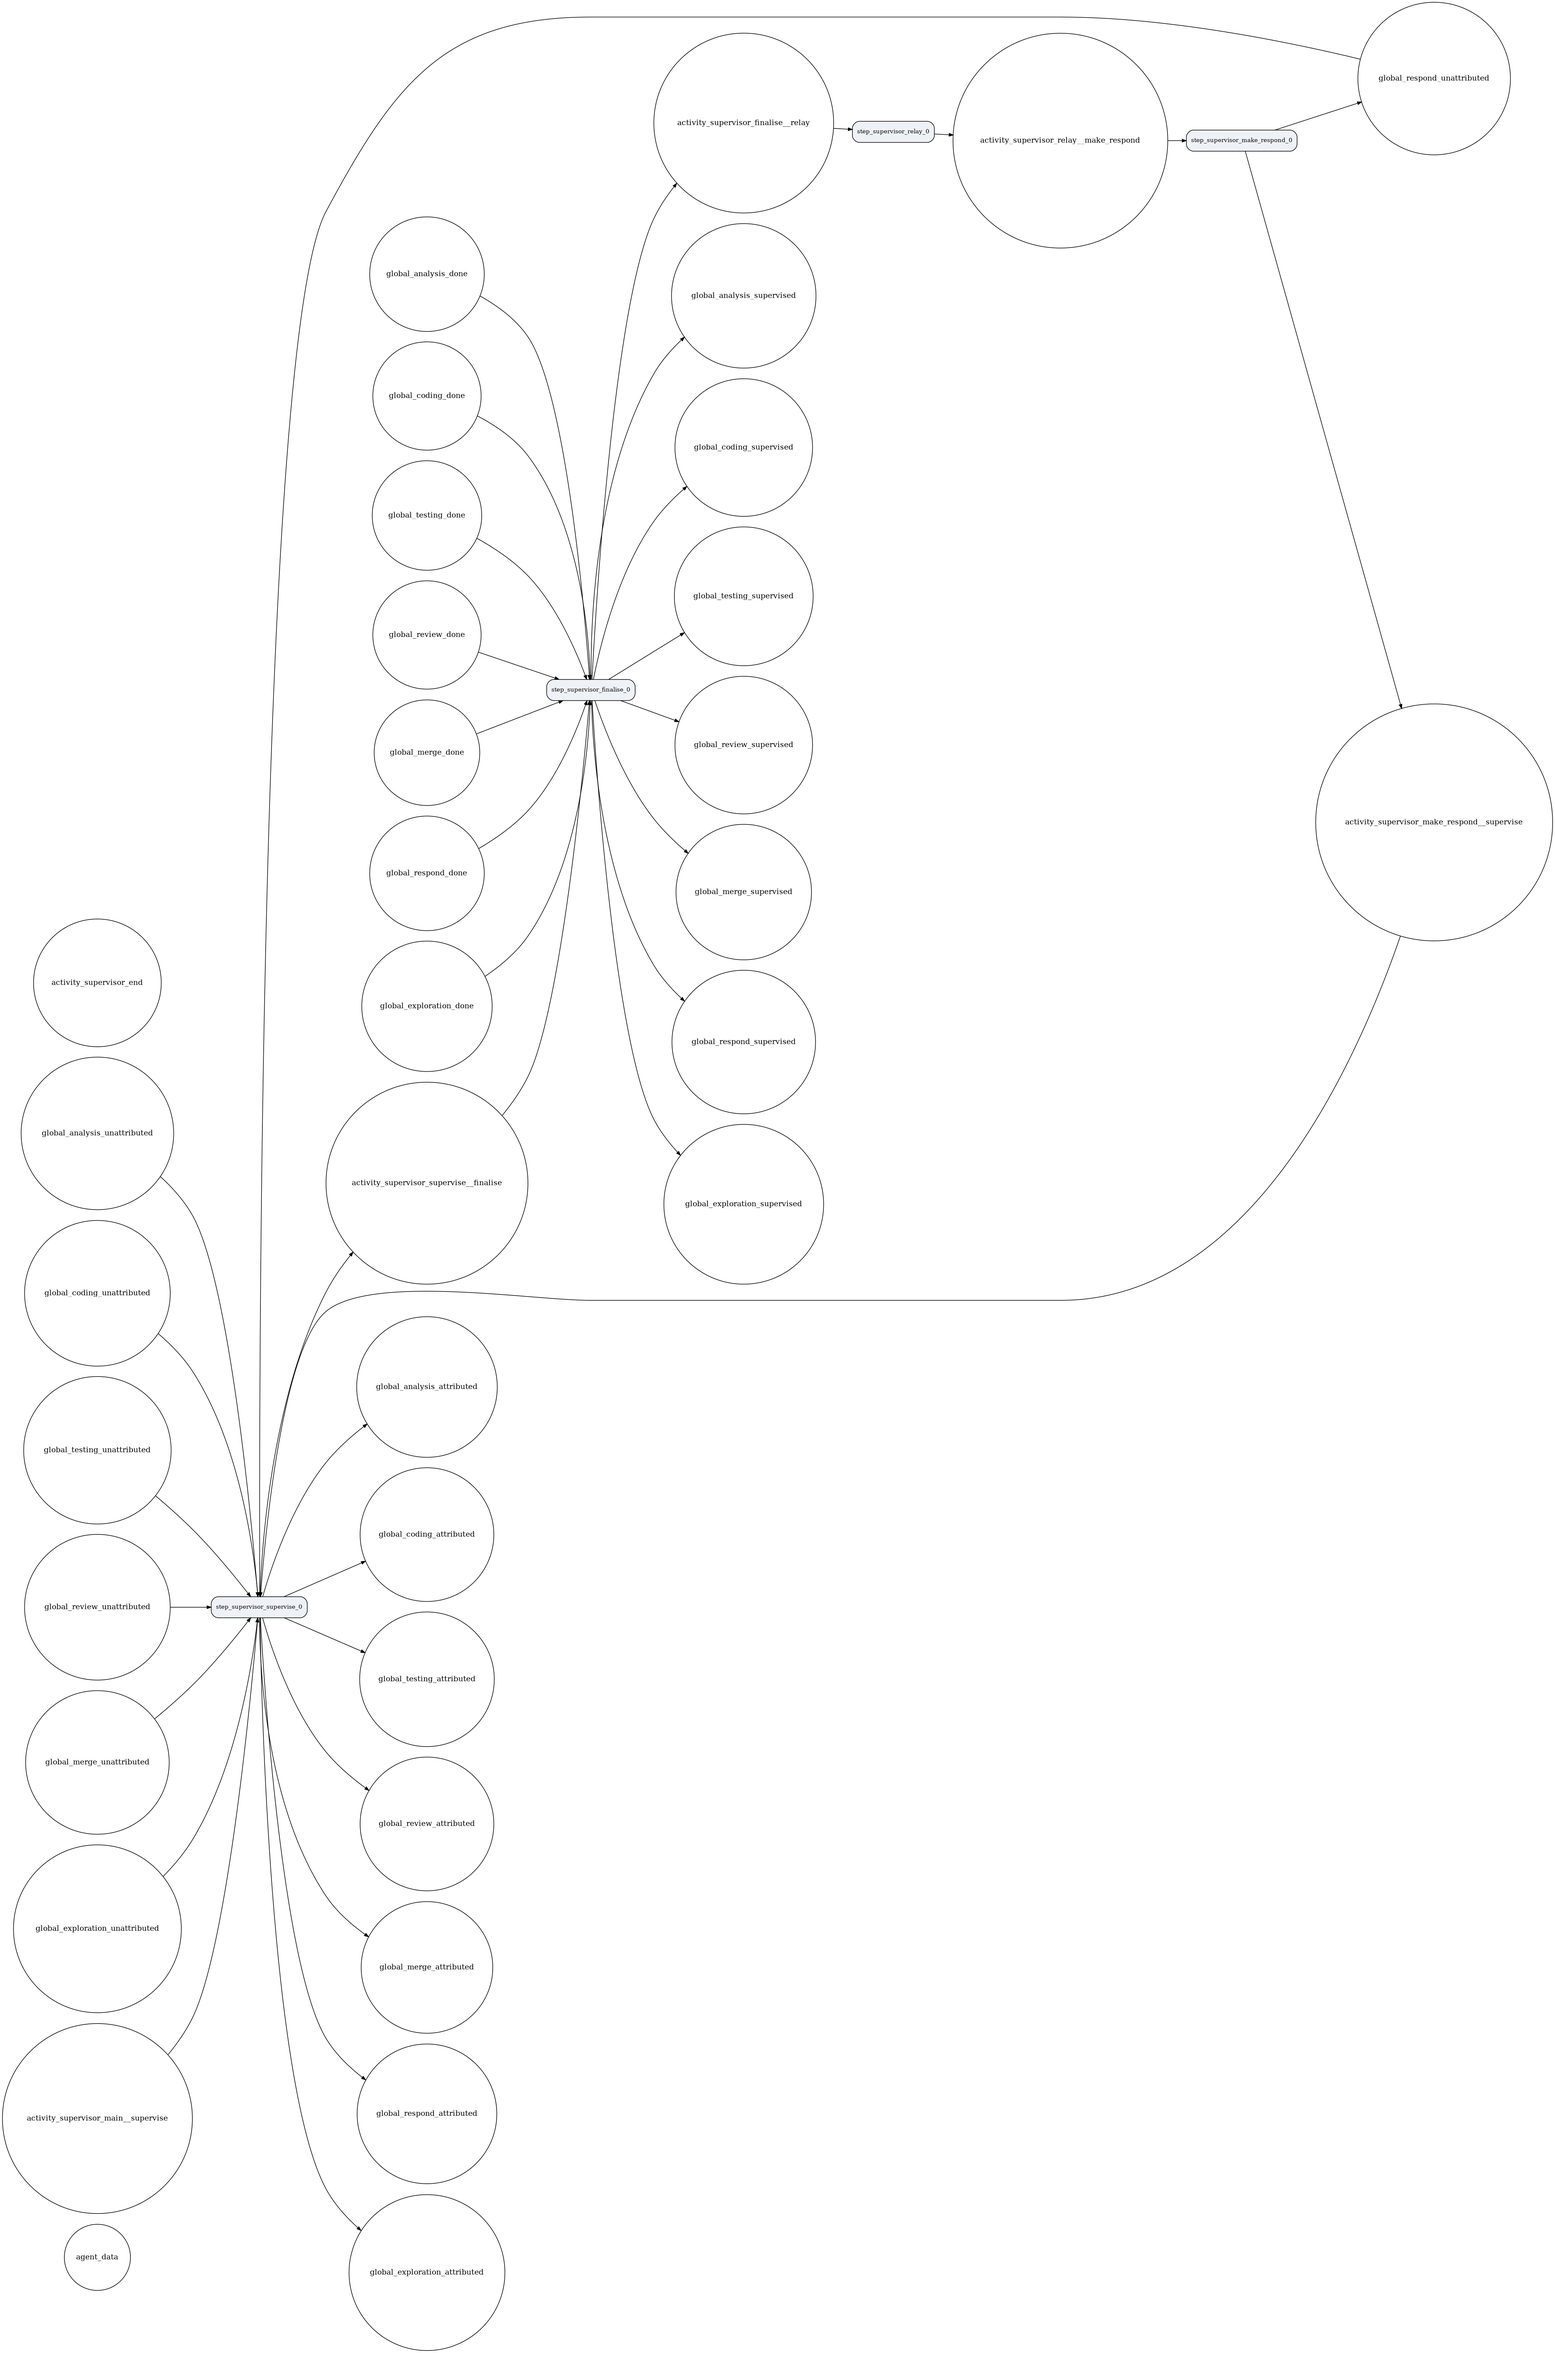
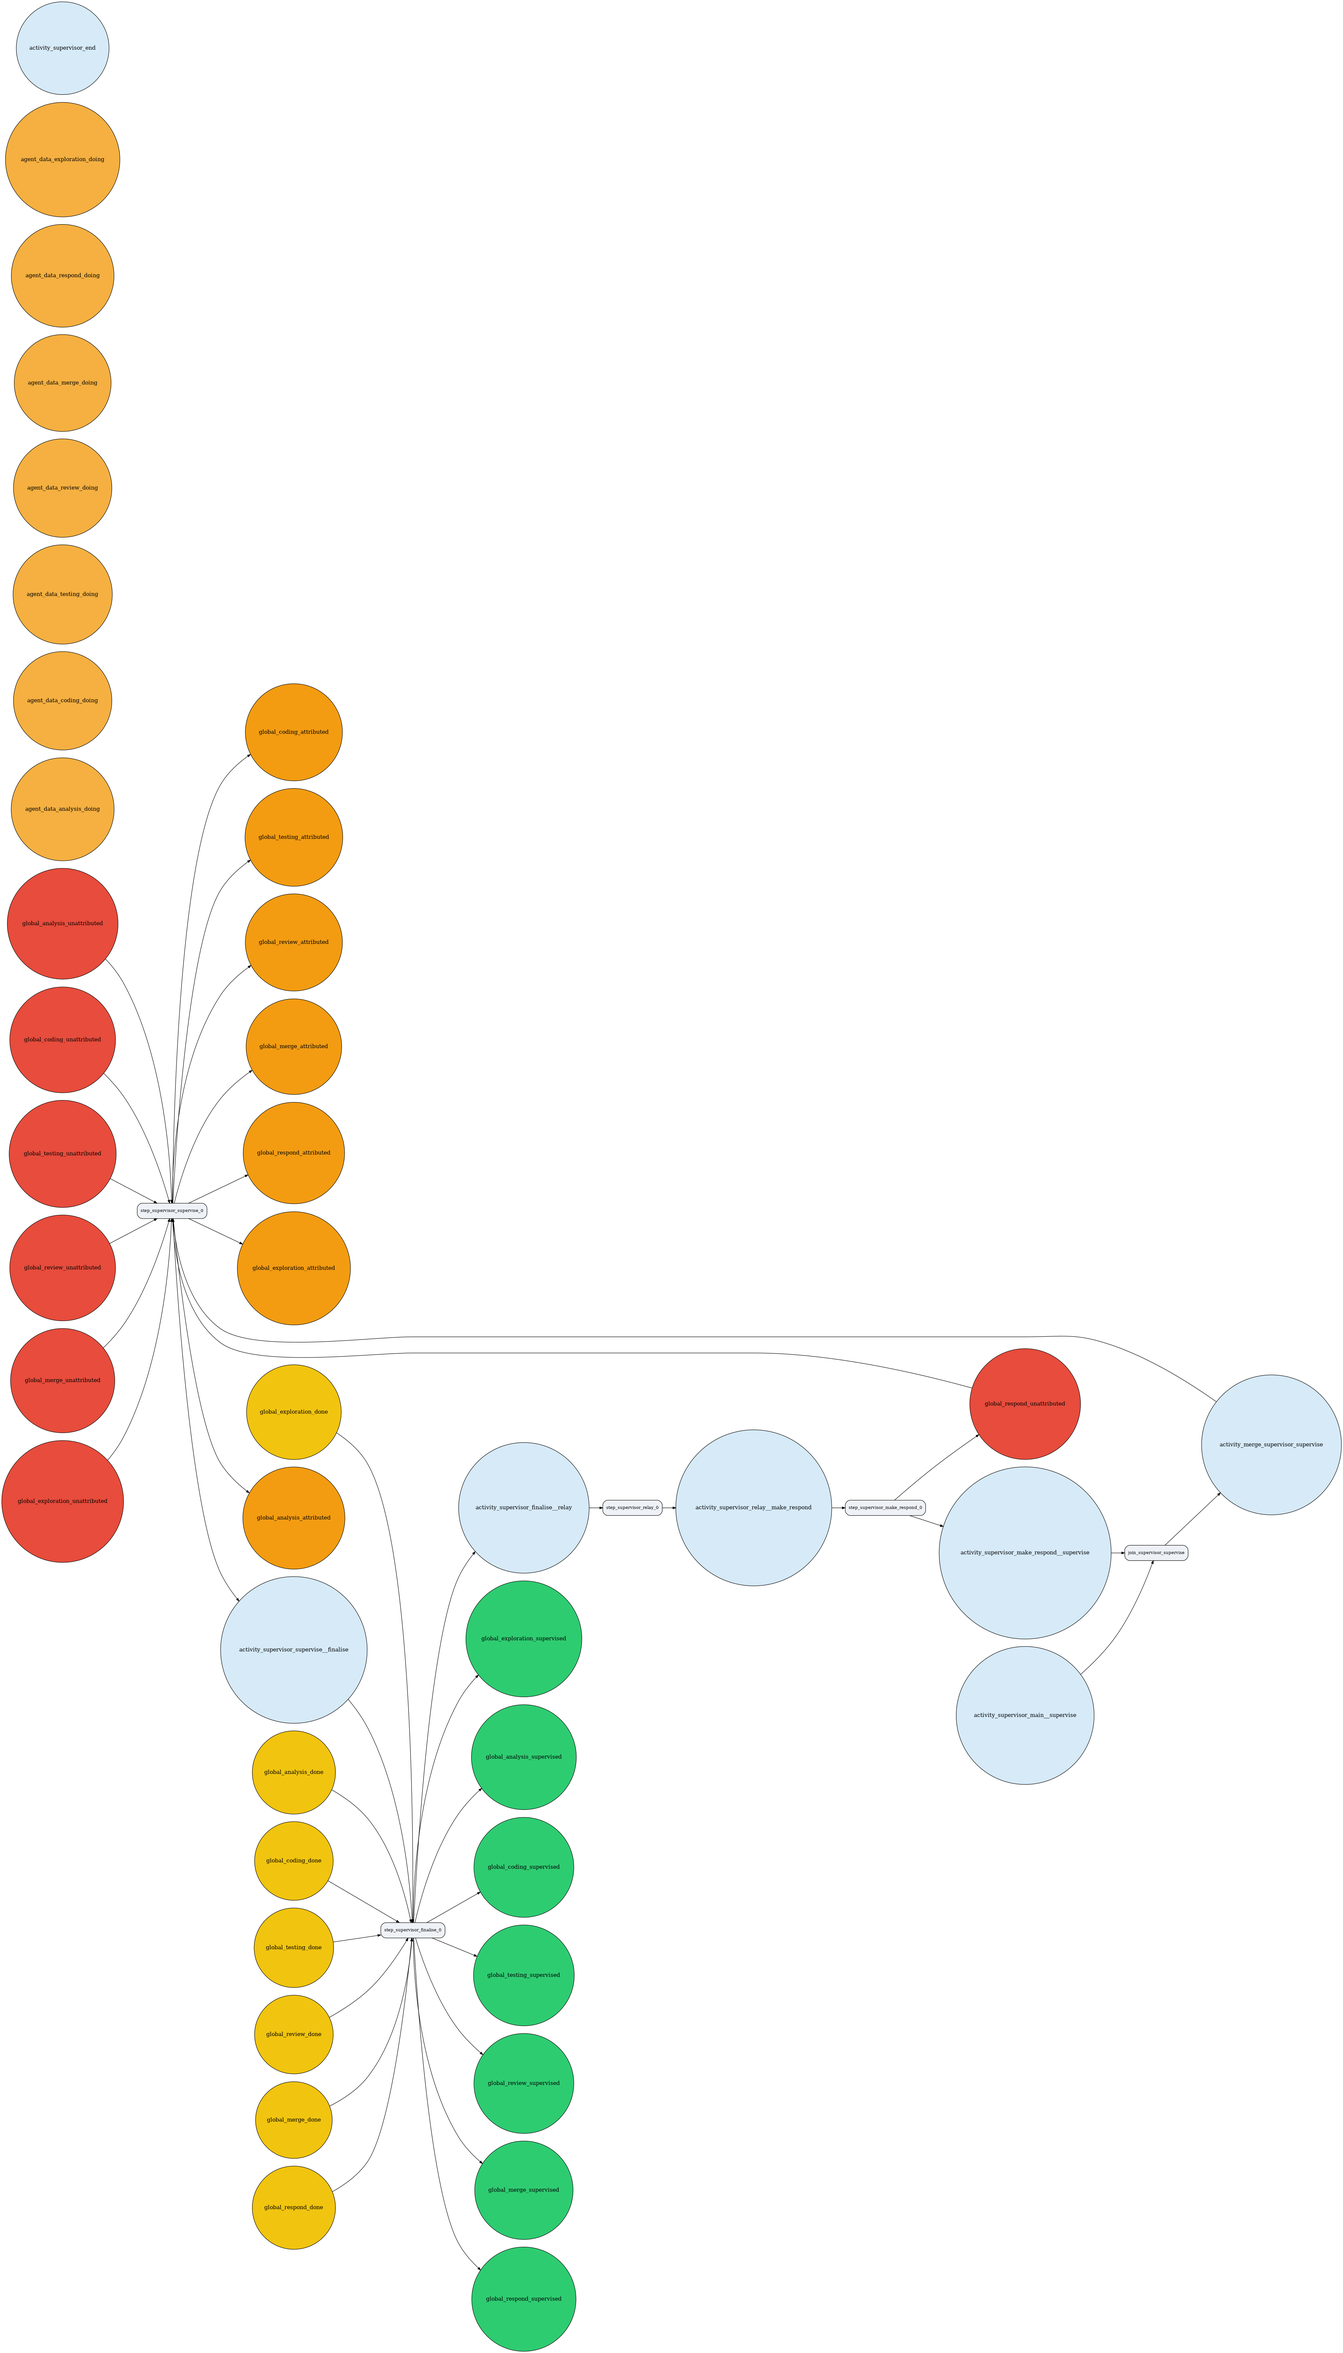
feat(diag): code couleur des places (activité bleu, data rouge→vert par état)
- save_petri_png : places remplies par couleur —
    activity_* : bleu clair ;
    global_<t>_unattributed : rouge, _attributed : orange, _done : jaune,
    _supervised : vert (dégradé) ;
    agent_data_<t>_doing : orange clair.
- PNG régénérés (coder, superviseur, team).

diff --git a/services/taskflow_petri.py b/services/taskflow_petri.py
@@ -342,6 +342,32 @@ def build_team_petri(path: Path) -> Dict[str, Any]:
     return result
 
 
+# Couleurs des places par rôle/état (dégradé rouge → vert) :
+#   activity_*            : bleu clair (le jeton d'activité)
+#   global_<t>_<etat>     : unattributed=rouge, attributed=orange,
+#                           done=jaune, supervised=vert
+#   agent_data_<t>_doing  : orange clair (la tâche en cours de l'agent)
+PLACE_COLORS: Dict[str, str] = {
+    "unattributed": "#e74c3c",  # rouge
+    "attributed": "#f39c12",    # orange
+    "done": "#f1c40f",          # jaune
+    "supervised": "#2ecc71",    # vert
+}
+PLACE_ACTIVITY_COLOR = "#d6eaf8"   # bleu clair
+PLACE_AGENT_DOING_COLOR = "#f5b041"
+
+
+def _place_color(pname: str) -> str:
+    if pname.startswith("activity_"):
+        return PLACE_ACTIVITY_COLOR
+    for et, col in PLACE_COLORS.items():
+        if pname.endswith("_" + et):
+            return col
+    if pname.startswith("agent_data_"):
+        return PLACE_AGENT_DOING_COLOR
+    return "#ffffff"
+
+
 def save_petri_png(petri: Petri, out_path: str) -> str:
     """Construit le pétri en DOT (graphviz) avec les LABELS des places et
     transitions, et le rend en PNG haute résolution. pm4py ne nomme pas les
@@ -355,7 +381,8 @@ def save_petri_png(petri: Petri, out_path: str) -> str:
     g.attr(rankdir="LR", size=f"{dim},{dim}", dpi="300",
            nodesep="0.25", ranksep="0.45")
     for p in petri.places:
-        g.node(p, p, shape="circle", fontsize="13")
+        g.node(p, p, shape="circle", fontsize="13",
+               style="filled", fillcolor=_place_color(p))
     for t in petri.transitions:
         g.node(t["name"], t["name"], shape="box", fontsize="10",
                style="rounded,filled", fillcolor="#eef2f7")
